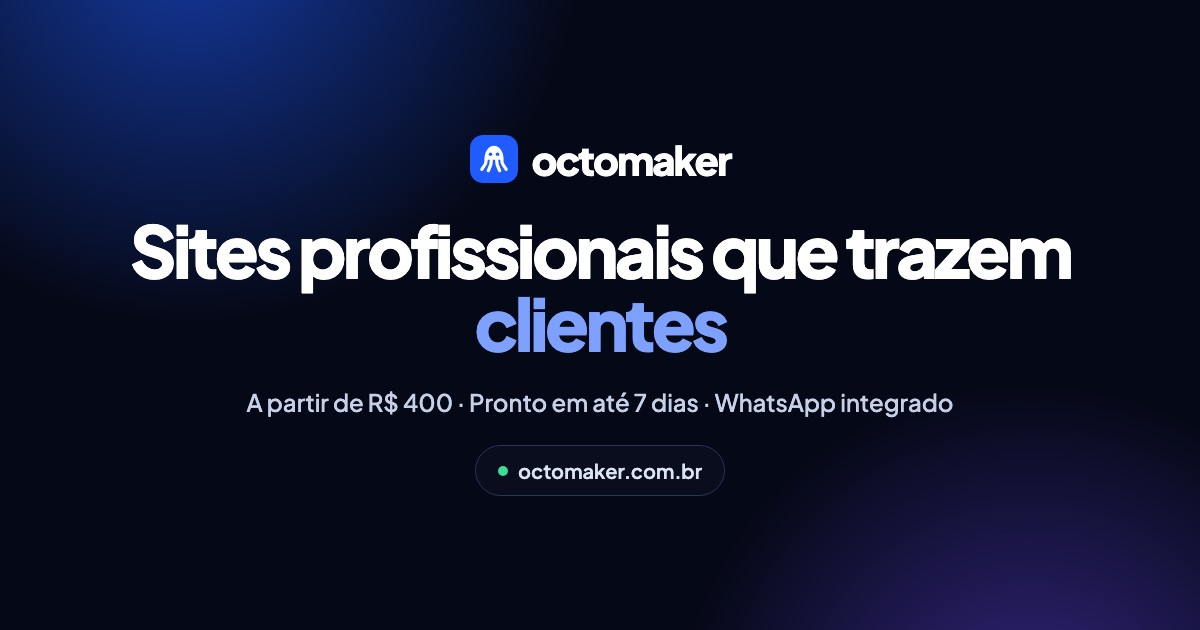
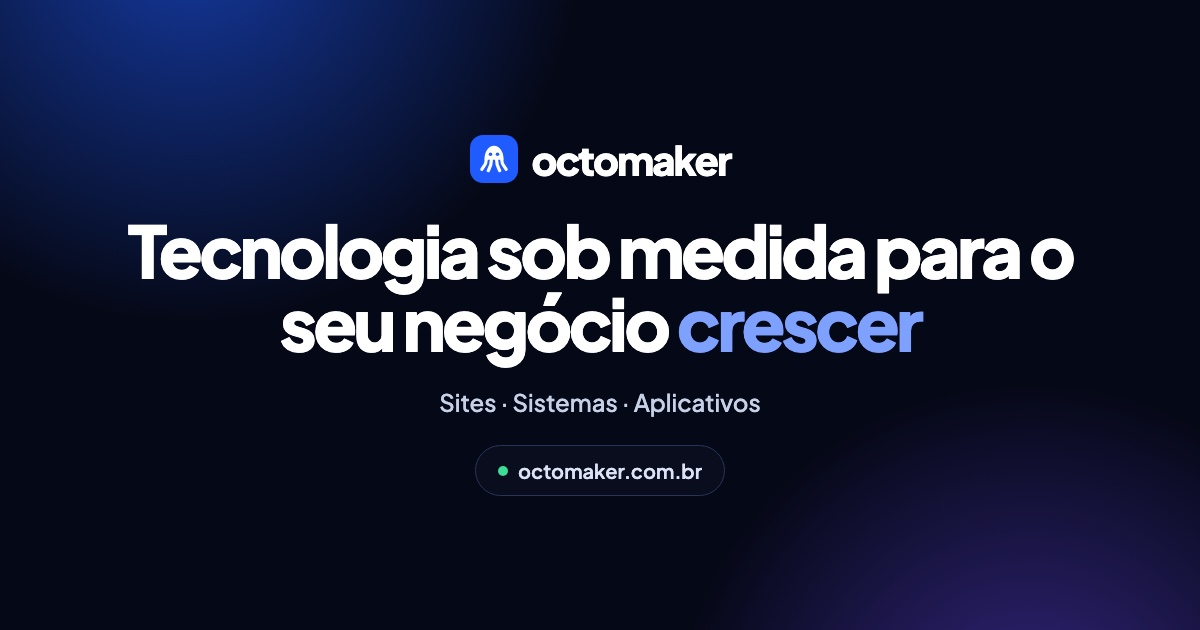
Imagem de compartilhamento e guia de marca sem preço

Changed region(s): [[0.0925, 0.3317, 0.8942, 0.6032], [0.185, 0.6032, 0.8017, 0.6635]]

diff --git a/marca/guia-de-marca.html b/marca/guia-de-marca.html
@@ -138,7 +138,7 @@
     <span class="kicker">Componentes</span>
     <h2>Botões e etiquetas</h2>
     <div class="card">
-      <div class="demo"><a class="btn" href="#">Quero meu site<i>→</i></a><a class="btn ghost" href="#">Ver projetos</a><span class="eyebrow"><span class="dot"></span>Criação de sites profissionais</span></div>
+      <div class="demo"><a class="btn" href="#">Quero meu projeto<i>→</i></a><a class="btn ghost" href="#">Ver projetos</a><span class="eyebrow"><span class="dot"></span>Sites, sistemas e aplicativos</span></div>
       <p>Botão principal: pílula branca com o círculo azul e a seta. Botão secundário: pílula com contorno. Etiqueta acima dos títulos: pílula com o ponto verde. Cards: fundo painel, borda fina e cantos de 24 px.</p>
     </div>
   </section>
@@ -149,7 +149,7 @@
     <div class="grid g3">
       <div class="card"><h3>Frases curtas</h3><p>"Sites que trazem clientes." Uma ideia por frase.</p></div>
       <div class="card"><h3>Fale do resultado</h3><p>Clientes, WhatsApp, aparecer no Google. Não fale de framework, código ou stack.</p></div>
-      <div class="card"><h3>Sem promessa vazia</h3><p>Preço e prazo claros: a partir de R$ 400, pronto em até 7 dias.</p></div>
+      <div class="card"><h3>Sem promessa vazia</h3><p>Escopo, prazo e valor combinados antes de começar, sem letra miúda.</p></div>
     </div>
   </section>
 
@@ -162,7 +162,7 @@
     </div>
   </section>
 
-  <footer>OctoMaker · criação de sites profissionais · logos em <code>marca/logo/</code>, fontes dos PNGs em <code>marca/_fontes/</code></footer>
+  <footer>OctoMaker · sites, sistemas e aplicativos · logos em <code>marca/logo/</code>, fontes dos PNGs em <code>marca/_fontes/</code></footer>
 </div>
 </body>
 </html>

diff --git a/marca/_fontes/og-image.html b/marca/_fontes/og-image.html
@@ -22,8 +22,8 @@
 </head>
 <body>
   <div class="logo"><svg viewBox="0 0 48 48"><rect width="48" height="48" rx="13" fill="#1F5BFF"/><path d="M14.40 24.80C14.40 16.48 18.56 10.72 24 10.72S33.60 16.48 33.60 24.80Z" fill="#fff"/><circle cx="20.48" cy="19.36" r="1.76" fill="#1F5BFF"/><circle cx="27.52" cy="19.36" r="1.76" fill="#1F5BFF"/><g fill="none" stroke="#fff" stroke-width="3.20" stroke-linecap="round"><path d="M16.32 24.16C16.32 30.56 13.12 31.20 11.84 34.40"/><path d="M21.44 24.16C21.44 31.20 19.52 33.12 18.24 35.68"/><path d="M26.56 24.16C26.56 31.20 28.48 33.12 29.76 35.68"/><path d="M31.68 24.16C31.68 30.56 34.88 31.20 36.16 34.40"/></g></svg>octomaker</div>
-  <h1>Sites profissionais que trazem <span>clientes</span></h1>
-  <p>A partir de R$ 400 · Pronto em até 7 dias · WhatsApp integrado</p>
+  <h1>Tecnologia sob medida para o seu negócio <span>crescer</span></h1>
+  <p>Sites · Sistemas · Aplicativos</p>
   <span class="url"><i></i>octomaker.com.br</span>
 </body>
 </html>
